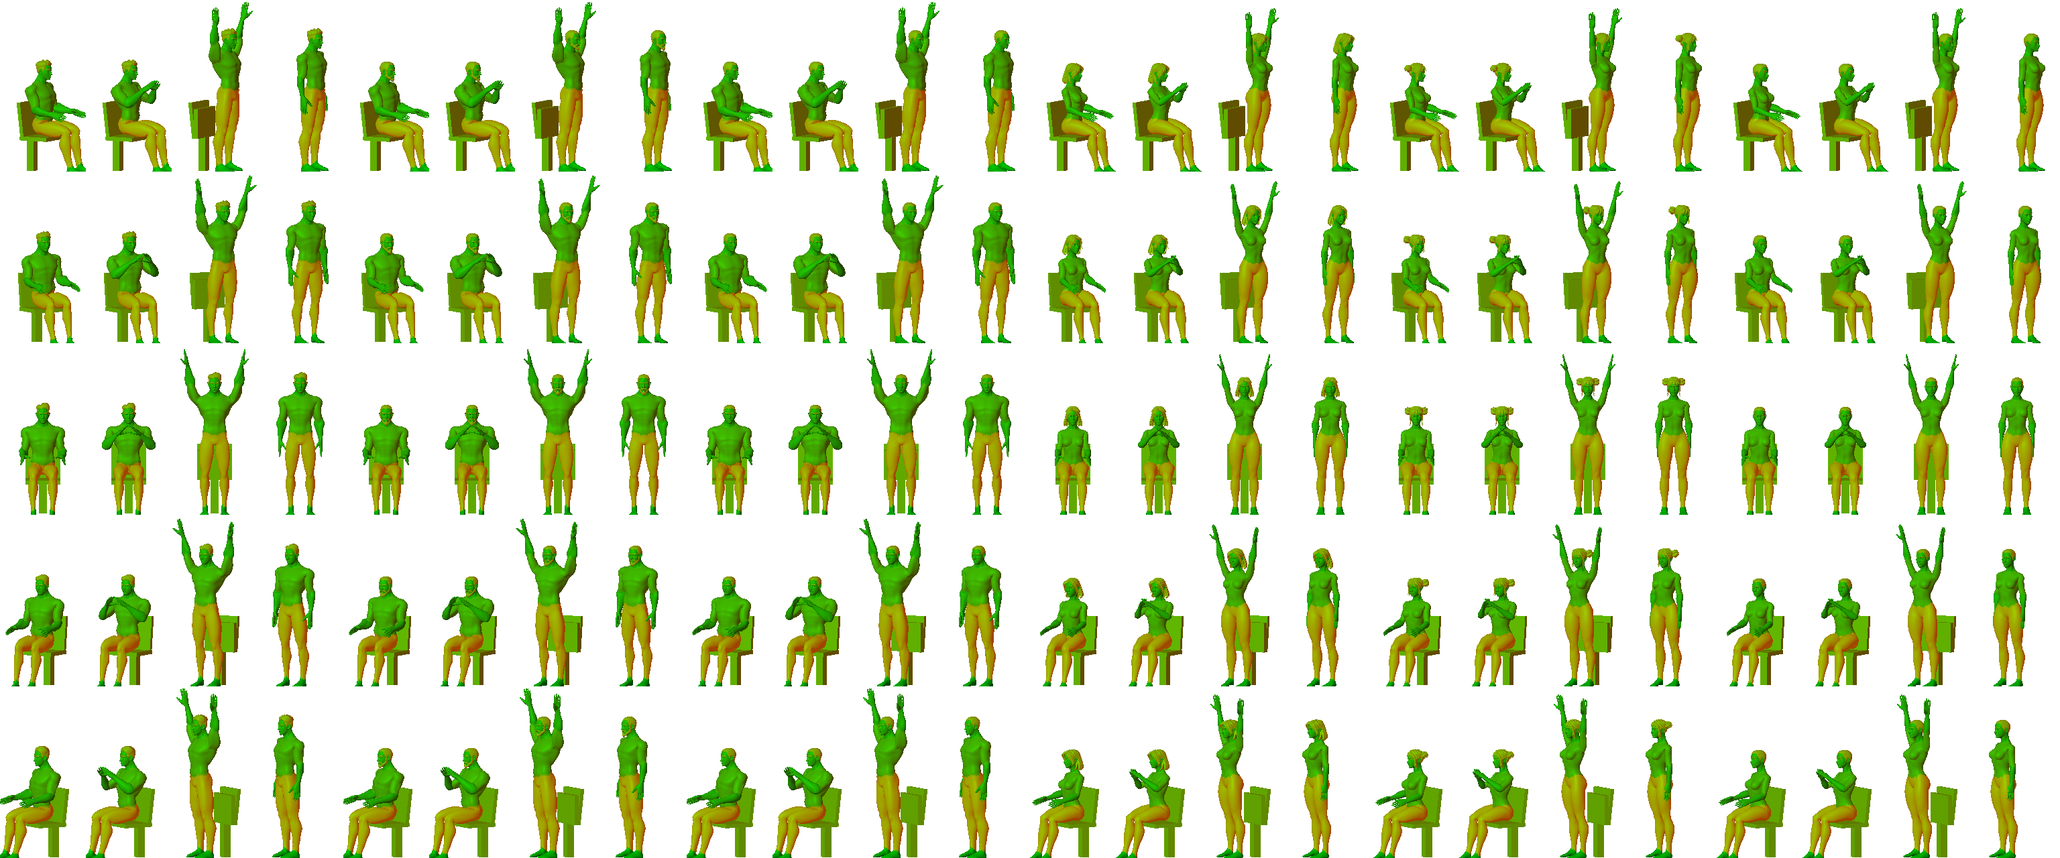
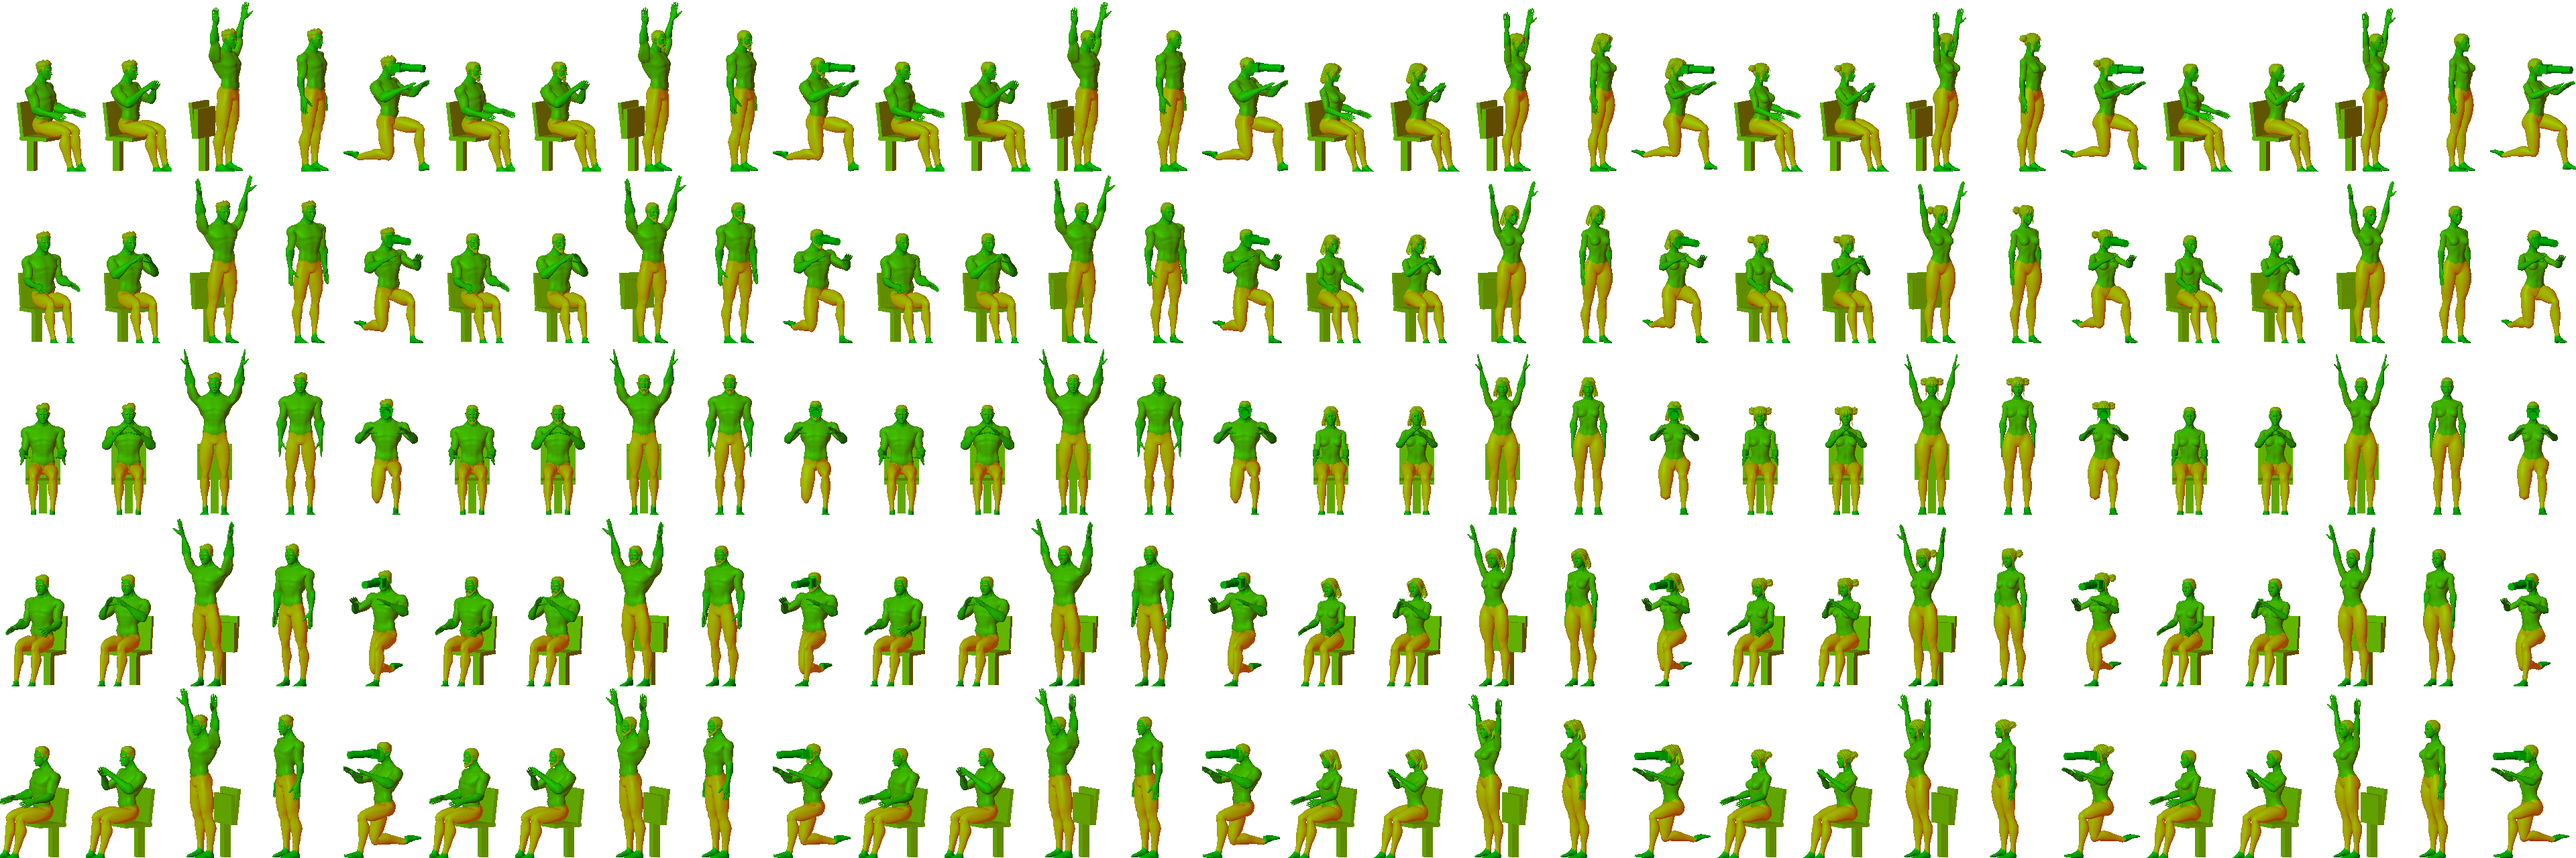
Test 3D : photographes a genou, objectif vers le coureur ; profil complet en ligne droite au 200 et au 400
- « les photographes n'ont pas d'attitude de photographe », « en mouvement,
  pas tout droit » : un cinquieme geste dans les cartes (un genou a terre,
  boitier et teleobjectif a l'oeil) ; dans le shader, leur cap suit le joueur,
  chacun avec son ecart ; poses en arc irregulier des deux cotes apres la ligne.
  Cinq gestes au plus : a six, l'atlas passerait 4 096 px de large.
- « sur la ligne droite du 200 et les lignes droites du 400, pas assez de
  profil » : sur un tour, profil entier en ligne droite, a moitie en virage,
  la camera pivotant doucement entre les deux ; part d'arriere par defaut
  0,15 (au lieu de 0,3). Le 100 m garde sa glissade de 8 a 92 %.

diff --git a/src/game/course-3d.ts b/src/game/course-3d.ts
@@ -48,7 +48,7 @@ const COTE = nombre('cote', DOS ? 0 : 2.4);
 // course), sa hauteur et sa part d'arriere en portrait. A regler sur le telephone :
 // ?pdebut=0.08 ?pfin=0.92 ?phaut=8 ?parriere=0.3
 const P_DEBUT = nombre('pdebut', 0.08), P_FIN = Math.max(P_DEBUT + 0.05, nombre('pfin', 0.92));
-const P_HAUT = nombre('phaut', 8), P_ARRIERE = Math.min(0.9, Math.max(0, nombre('parriere', 0.3)));
+const P_HAUT = nombre('phaut', 8), P_ARRIERE = Math.min(0.9, Math.max(0, nombre('parriere', 0.15)));
 const OMBRES = Q.get('ombres') !== '0';
 const STADE_FORCE = Q.get('stade');
 
@@ -65,7 +65,7 @@ let nCouloirs = 8;
 const camPos = new THREE.Vector3(), camVise = new THREE.Vector3();
 let camPret = false;
 let secousse = 0, etatVu = '', champBase = 55;
-let profilDecal = 0, profilEcart = 0, profilPret = false;
+let profilDecal = 0, profilEcart = 0, profilPret = false, profilB = 0;
 const _c3 = new THREE.Vector3(), _d3 = new THREE.Vector3();
 
 /** Un tronc de cone de rayon 1, axe Y de -0,5 a +0,5 : ses deux rayons viennent de l'instance. */
@@ -101,7 +101,7 @@ function texteCanvas(dessin: (c: CanvasRenderingContext2D, w: number, h: number)
 //
 // LA FOULE VIT. Elle se leve et saute au passage du joueur, et tout le stade se
 // leve apres l'arrivee (uLiesse) ; ceux qui applaudissent sautillent.
-const P_SIL = 6, P_GESTES = 4, P_ANGLES = 5, CARTE_L = 1.1, CARTE_H = 2.2;
+const P_SIL = 6, P_GESTES = 5, P_ANGLES = 5, CARTE_L = 1.1, CARTE_H = 2.2;
 let atlasPublic: THREE.Texture | null = null, publicDemande = false;
 const uFoule = {
   uAtlas: { value: null as THREE.Texture | null }, uCam: { value: new THREE.Vector3() },
@@ -144,7 +144,12 @@ varying vec2 vCase; varying vec3 vC1, vC2, vC3, vC4;`)
       .replace('#include <begin_vertex>', `
 vec2 versCam = uCam.xy - aPos.xy;
 float ang = atan(versCam.y, versCam.x);
-float rel = mod(degrees(ang - aFace) + 180.0, 360.0) - 180.0;
+float ge0 = mod(aVar, ${P_GESTES}.0);
+// LES PHOTOGRAPHES SUIVENT LA COURSE : leur objectif tourne vers le joueur (« en
+// mouvement, pas tout droit », l'auteur, 22/10), chacun avec son petit ecart
+float face = aFace;
+if (ge0 > 3.5) face = atan(uJoueur.y - aPos.y, uJoueur.x - aPos.x) + (fract(aPh * 37.1) - 0.5) * 0.5;
+float rel = mod(degrees(ang - face) + 180.0, 360.0) - 180.0;
 float ia = clamp(floor((rel + 60.0) / 30.0 + 0.5), 0.0, ${P_ANGLES - 1}.0);
 float sil = floor(aVar / ${P_GESTES}.0), ge = mod(aVar, ${P_GESTES}.0);
 // au passage du joueur, et toute entiere apres l'arrivee, la foule se leve
@@ -449,11 +454,12 @@ function construireLeStade(nCouloirs: number, th: any, T: any, C: any, stadeCle:
    * une carte du public (voir LE PUBLIC, EN CARTES). `pied` : debout, bras le long
    * du corps et sans siege (officiels, photographes) ; `face` force son cap.
    */
-  const spectateur = (M: THREE.Matrix4, x: number, y: number, z: number, pied = false, face?: number) => {
+  const spectateur = (M: THREE.Matrix4, x: number, y: number, z: number, pied: boolean | number = false, face?: number) => {
     _p.set(x, y, z).applyMatrix4(M);
     if (face === undefined) { _f.set(0, -1, 0).transformDirection(M); face = Math.atan2(_f.y, _f.x); }
-    const u = hasard(), geste = pied ? 3 : u < 0.6 ? 0 : u < 0.85 ? 1 : 2;
-    cartes.push(_p.x, _p.y, _p.z, face, ((hasard() * 6) | 0) * 4 + geste, hasard());
+    // `pied` : vrai pour un officiel debout (3), ou le geste lui-meme (4 : photographe)
+    const u = hasard(), geste = typeof pied === 'number' ? pied : pied ? 3 : u < 0.6 ? 0 : u < 0.85 ? 1 : 2;
+    cartes.push(_p.x, _p.y, _p.z, face, ((hasard() * P_SIL) | 0) * P_GESTES + geste, hasard());
     for (const c of [choix(peaux), choix(coulMaillots), choix(coulCheveux), choix(coulPantalons)]) cartes.push(c.r, c.g, c.b);
   };
 
@@ -602,7 +608,12 @@ function construireLeStade(nCouloirs: number, th: any, T: any, C: any, stadeCle:
   if (atlasPublic) {
     // tournes vers la piste (+y) : officiels a l'arrivee, photographes sur l'herbe apres la ligne, commissaires
     for (let i = 0; i < 6; i++) spectateur(M0, 101 + i * 0.7, -1.6 - (i % 2) * 0.6, 0, true, Math.PI / 2);
-    for (let i = 0; i < 7; i++) spectateur(M0, 105 + i * 0.8, -2.6 - (i % 2) * 0.5, 0, true, Math.PI * 0.75);
+    // les photographes, un genou a terre, en arc irregulier de part et d'autre de la piste apres la ligne
+    for (let i = 0; i < 6; i++) {
+      const a = (i + 0.5) / 6 * 1.2 - 0.6;
+      spectateur(M0, 106 + 3 * Math.cos(a) + (hasard() - 0.5) * 0.8, -3.2 + 2.4 * Math.sin(a) + (hasard() - 0.5) * 0.6, 0, 4, Math.PI);
+    }
+    for (let i = 0; i < 4; i++) spectateur(M0, 105.5 + i * 1.1 + (hasard() - 0.5) * 0.6, W + 0.9 + (hasard() - 0.5) * 0.3, 0, 4, Math.PI);
     for (let i = 0; i < 4; i++) spectateur(M0, 30 + i * 18, -1.8, 0, true, Math.PI / 2);
   }
 
@@ -1063,8 +1074,21 @@ export function rendre(App: any, dt: number) {
     // et derriere lui au plus — au-dela, en portrait, les coureurs deviendraient des
     // points : l'ecart au premier, lui, reste ecrit dans le bandeau.
     const total = T.total || 100;
-    const u = Math.min(1, Math.max(0, (pl.d - P_DEBUT * total) / ((P_FIN - P_DEBUT) * total)));
-    const b = u * u * (3 - 2 * u);
+    // SUR UN TOUR (200, 400 m), LE PROFIL SUIT LA PISTE : entier dans les lignes droites,
+    // a moitie dans les virages — de profil, un virage sort du cadre —, et la camera
+    // pivote doucement de l'un a l'autre (« sur les lignes droites, pas assez de profil »,
+    // l'auteur, 22/10). Le 100 m garde sa lente glissade.
+    let cible: number;
+    if (T.curved) {
+      const v = Math.min(1, Math.max(0, (pl.d - 0.03 * total) / (0.08 * total)));
+      cible = v * v * (3 - 2 * v) * (T.lean(pl.d, pl.lane, 1) ? 0.5 : 1);
+    } else {
+      const u = Math.min(1, Math.max(0, (pl.d - P_DEBUT * total) / ((P_FIN - P_DEBUT) * total)));
+      cible = u * u * (3 - 2 * u);
+    }
+    if (pl.d < 0.5 || !T.curved) profilB = cible;
+    else profilB += (cible - profilB) * Math.min(1, (dt || 0.016) * 0.7);
+    const b = profilB;
     if (b <= 0) profilPret = false;
     if (b > 0 && !DOS) {
       let dMin = pl.d, dMax = pl.d;

diff --git a/tools/blender/public_cartes.py b/tools/blender/public_cartes.py
@@ -49,7 +49,11 @@ CORPS = os.path.join(Q, 'Base Characters', 'Godot - UE', 'Superhero_%s_FullBody.
 CHEVEUX = os.path.join(Q, 'Hairstyles', 'Origin at 0', 'glTF (Godot)', 'Hair_%s.gltf')
 SILHOUETTES = [('Male', ['SimpleParted']), ('Male', ['Buzzed', 'Beard']), ('Male', ['Buzzed']),
                ('Female', ['Long']), ('Female', ['Buns']), ('Female', ['BuzzedFemale'])]
-GESTES = ['assis', 'applaudit', 'debout', 'pied']   # pied : debout, bras le long du corps, sans siege (officiels)
+# pied : debout, bras le long du corps, sans siege (officiels) ; photo : un genou a terre,
+# l'appareil a l'oeil (« les photographes n'ont pas d'attitude de photographe », 22/10).
+# Pas plus de cinq : a six, l'atlas passerait 4 096 pixels de large, la limite des
+# textures sur les telephones les plus faibles.
+GESTES = ['assis', 'applaudit', 'debout', 'pied', 'photo']
 ANGLES = [-60, -30, 0, 30, 60]
 CW, CH = 128, 256                  # une case, en pixels
 LARG, HAUT = 1.1, 2.2              # ce qu'elle couvre, en metres (le siege au bas, au milieu)
@@ -124,7 +128,15 @@ def viser_os(rig, nom, direction):
 
 def poser(rig, geste):
     """Il regarde -Y. Assis : cuisses vers l'avant, tibias vers le bas."""
-    if geste not in ('debout', 'pied'):
+    if geste == 'photo':
+        # un genou a terre : la jambe gauche devant, le genou droit au sol, le pied derriere
+        viser_os(rig, 'thigh_l', (0, -1, -0.15))
+        viser_os(rig, 'calf_l', (0, -0.05, -1))
+        viser_os(rig, 'foot_l', (0, -1, -0.3))
+        viser_os(rig, 'thigh_r', (0, -0.25, -1))
+        viser_os(rig, 'calf_r', (0, 1, -0.08))
+        viser_os(rig, 'foot_r', (0, 1, 0.3))
+    elif geste not in ('debout', 'pied'):
         for c in ('l', 'r'):
             viser_os(rig, 'thigh_' + c, (0, -1, -0.08))
             viser_os(rig, 'calf_' + c, (0, -0.12, -1))
@@ -137,6 +149,10 @@ def poser(rig, geste):
         elif geste == 'applaudit':
             viser_os(rig, 'upperarm_' + c, (s * 0.35, -0.75, -0.55))
             viser_os(rig, 'lowerarm_' + c, (-s * 0.55, -0.55, 0.55))
+        elif geste == 'photo':
+            # les coudes ecartes, les mains devant le visage : elles tiennent l'appareil
+            viser_os(rig, 'upperarm_' + c, (s * 0.45, -0.55, -0.35))
+            viser_os(rig, 'lowerarm_' + c, (-s * 0.35, -0.85, 0.4))
         elif geste == 'pied':
             viser_os(rig, 'upperarm_' + c, (s * 0.16, 0.02, -1))
             viser_os(rig, 'lowerarm_' + c, (s * 0.05, -0.12, -1))
@@ -197,10 +213,32 @@ def personne(silhouette, geste, mats):
     if geste in ('debout', 'pied'):
         rig.location.z -= min((rig.matrix_world @ rig.pose.bones['ball_' + c].head).z for c in 'lr') - 0.03
         rig.location.y += -0.18 - pelvis.y
+    elif geste == 'photo':
+        # le genou droit et le pied gauche au sol
+        bas = min((rig.matrix_world @ rig.pose.bones['calf_r'].head).z, (rig.matrix_world @ rig.pose.bones['ball_l'].head).z)
+        rig.location.z -= bas - 0.06
+        rig.location.y -= pelvis.y
     else:
         rig.location.z += ASSISE + 0.10 - pelvis.z
         rig.location.y += 0.02 - pelvis.y
     rig.location.x -= pelvis.x
+    if geste == 'photo':
+        appareil(rig, mats)
+
+
+def appareil(rig, mats):
+    """Le boitier et son teleobjectif, devant l'oeil, pointes droit devant (-Y)."""
+    bpy.context.view_layer.update()
+    t = rig.matrix_world @ rig.pose.bones['Head'].head
+    z = t.z + 0.09
+    bpy.ops.mesh.primitive_cube_add(location=(t.x, t.y - 0.16, z))
+    b = bpy.context.active_object
+    b.scale = (0.075, 0.05, 0.055)
+    bpy.ops.mesh.primitive_cylinder_add(radius=0.048, depth=0.34, vertices=16,
+                                        location=(t.x, t.y - 0.36, z + 0.005), rotation=(math.pi / 2, 0, 0))
+    o = bpy.context.active_object
+    for m in (b, o):
+        m.data.materials.append(mats['base'])
 
 
 def materiaux():
@@ -239,7 +277,7 @@ def main():
         cam = camera(sc)
         e = bpy.data.objects.new('siege', None)
         sc.collection.objects.link(e)
-        if g != 'pied':
+        if g not in ('pied', 'photo'):
             tribune.siege(e, releve=(g == 'debout'))
         for o in e.children:
             o.data.materials.append(mats['siege'])
